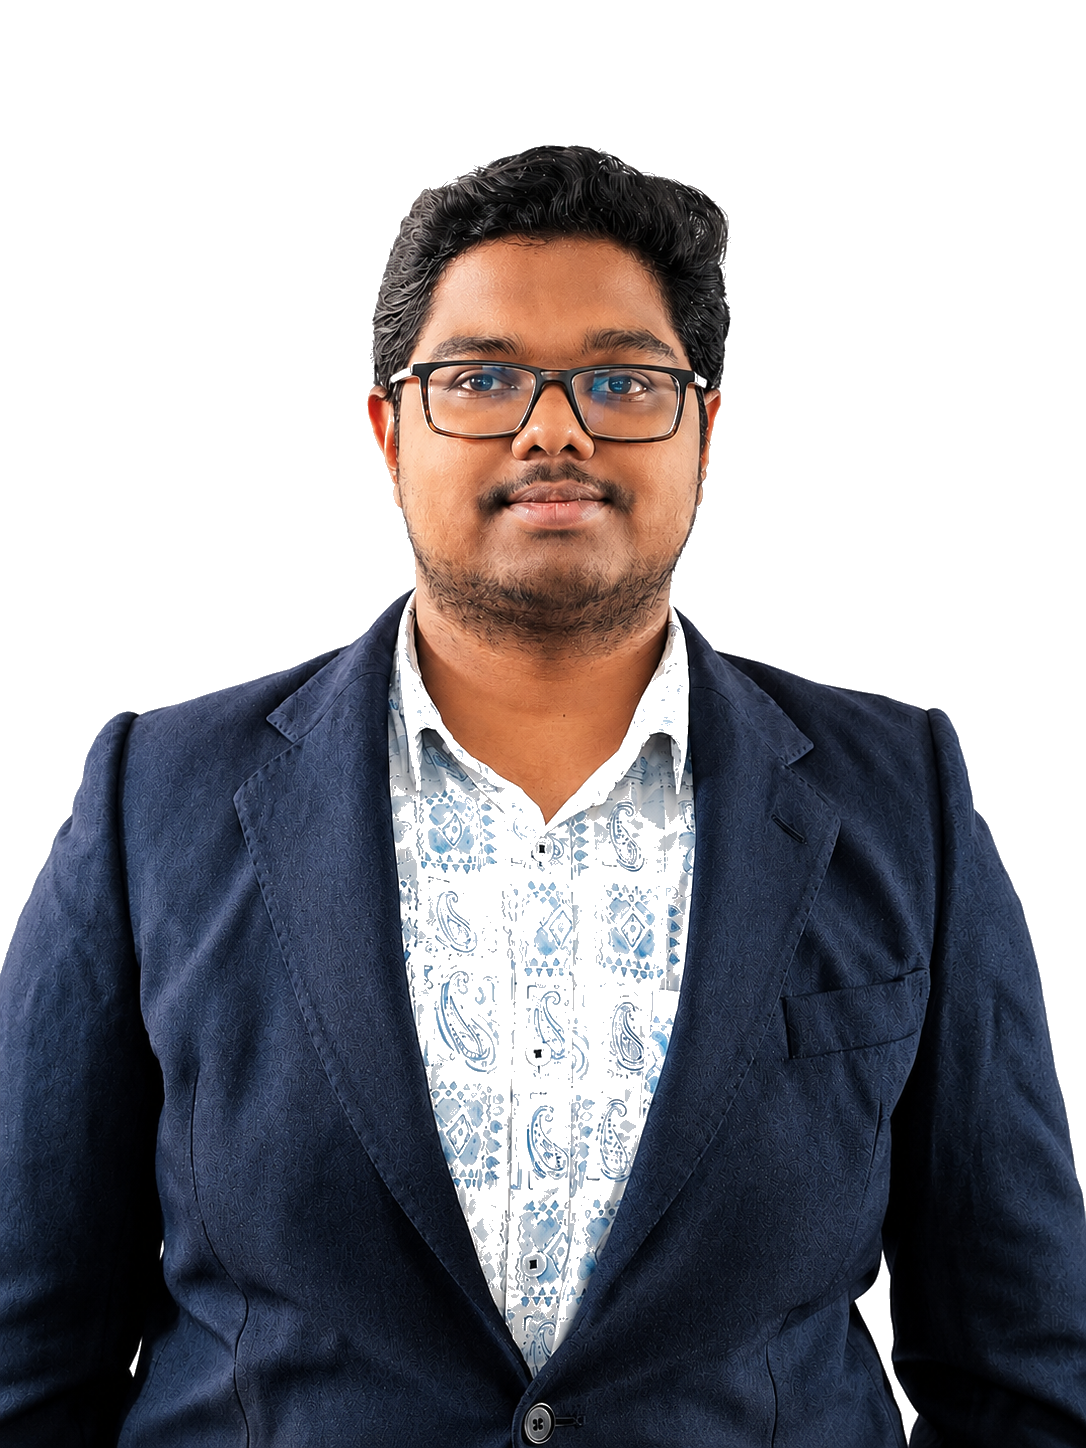
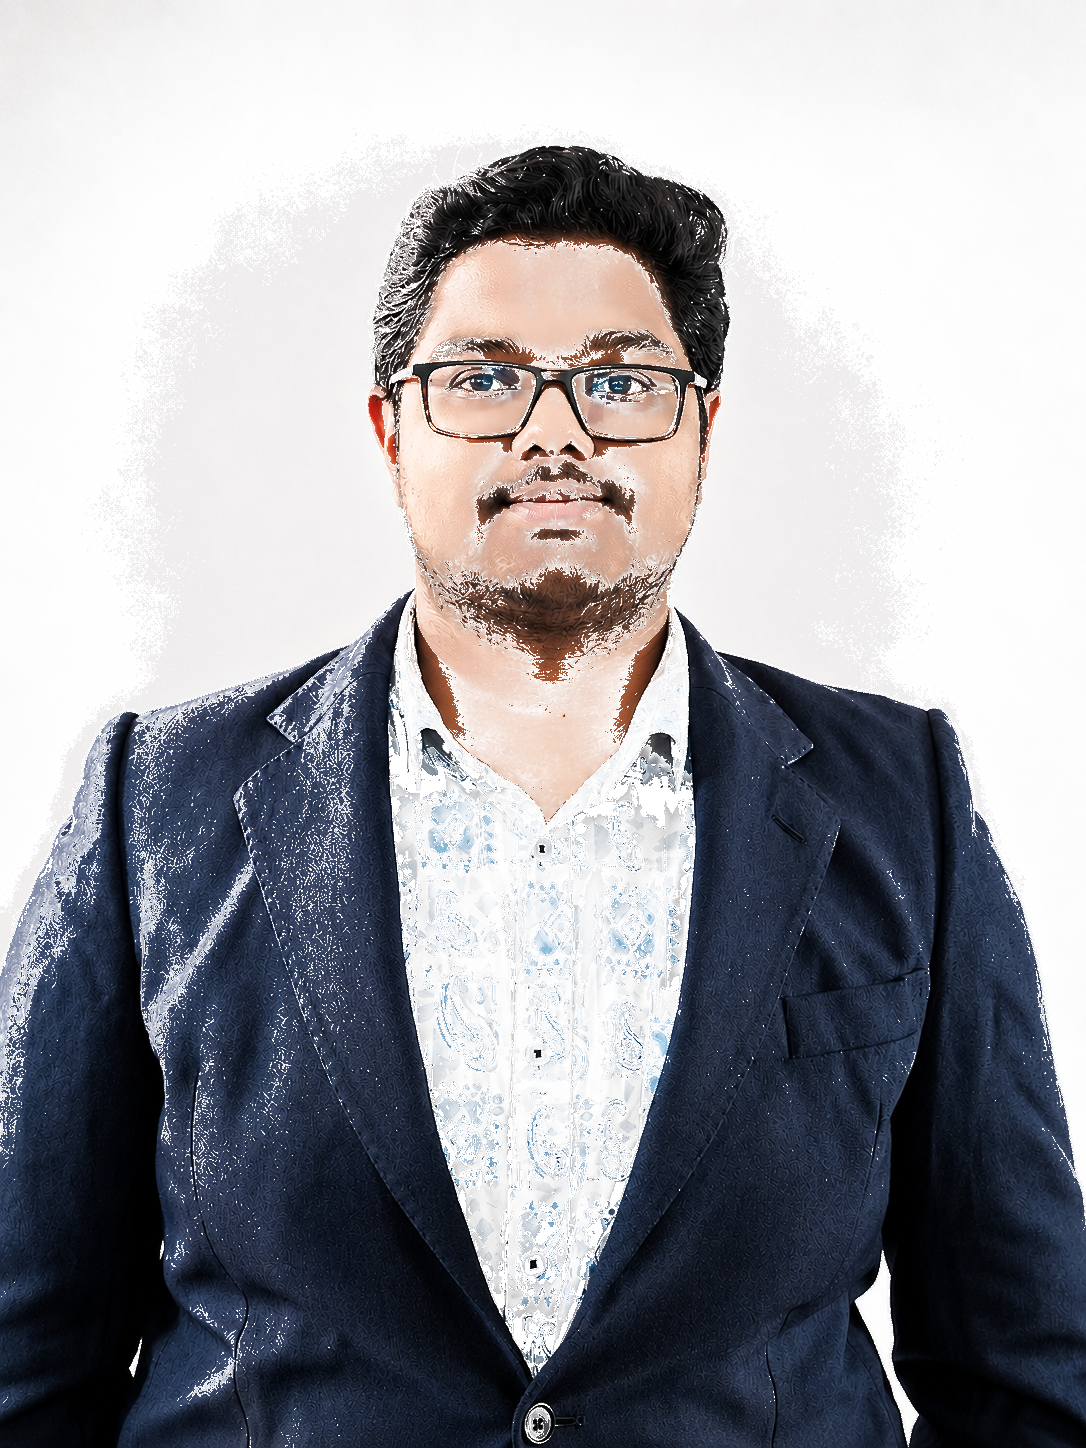
Fix hero image background removal & CSS blend mode

diff --git a/style.css b/style.css
@@ -450,7 +450,7 @@ img {
     width: 100%;
     height: auto;
     object-fit: contain;
-    mix-blend-mode: screen; /* Removes black background */
+    mix-blend-mode: normal;
     transition: var(--transition-norm);
 }
 
